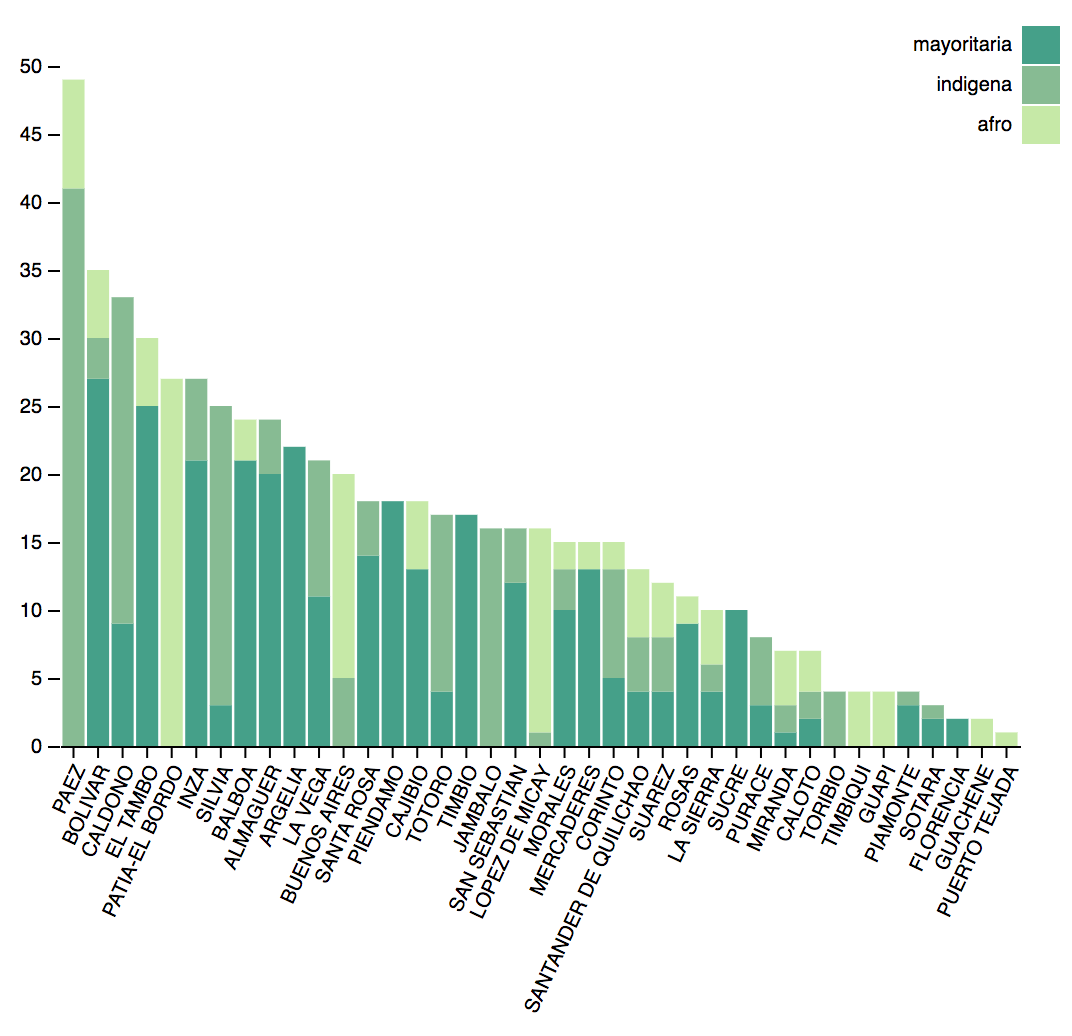
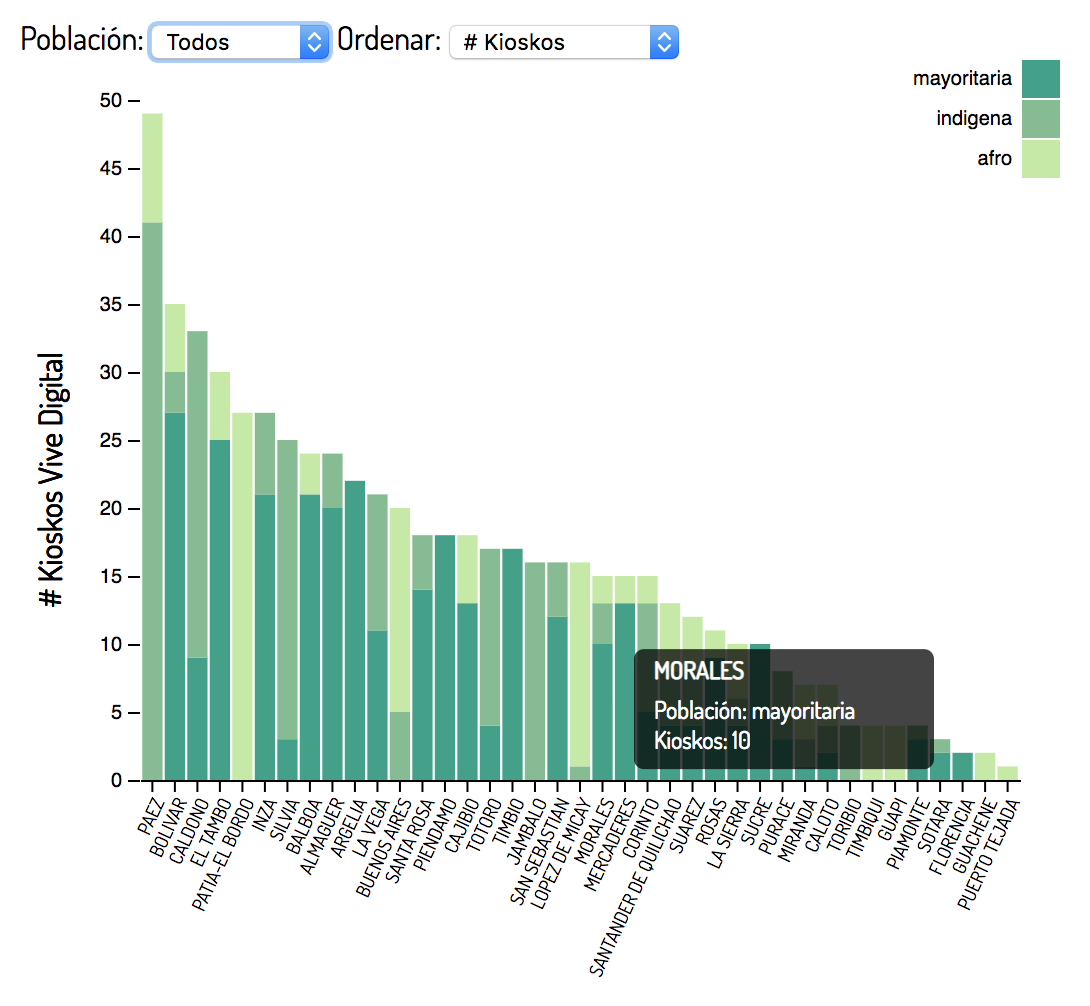
Actualiza el pantallazo

Changed region(s): [[0.0, 0.0, 0.9543, 0.9861], [0.8312, 0.0, 1.0, 0.1849], [0.5849, 0.0, 0.6465, 0.0616]]

diff --git a/logic.js b/logic.js
@@ -1,7 +1,7 @@
 var target = d3.select("#target");
 
 var svg = d3.select("svg"),
-    margin = { top: 20, right: 20, bottom: 60, left: 40 },
+    margin = { top: 20, right: 20, bottom: 60, left: 60 },
     width = +svg.attr("width") - margin.left - margin.right,
     height = +svg.attr("height") - margin.top - margin.bottom,
     g = svg.append("g").attr("transform", "translate(" + margin.left + "," + margin.top + ")");
@@ -46,6 +46,8 @@ function updateChart() {
         .style("text-anchor", "end")
         .attr("dx", "-.8em")
         .attr("dy", ".15em")
+        .style("font-family", "Dosis")
+        .style("font-size", "7pt")
         .attr("transform", function (d) {
             return "rotate(-65)";
         });
@@ -57,6 +59,14 @@ function updateChart() {
         .attr("id", "yaxis")
         .call(d3.axisLeft(y))
         .call(g => g.select(".domain").remove());
+
+    svg.append("text")
+        .attr("transform", "rotate(-90)")
+        .attr("y", margin.left - 55)
+        .attr("x", -1*height/2)
+        .attr("dy", "1em")
+        .style("text-anchor", "middle")
+        .text("# Kioskos Vive Digital");
 
 
     if (poblation != 3) {

diff --git a/index.html b/index.html
@@ -20,9 +20,10 @@
     </select>
     <span>Ordenar: </span>
     <select id="sortdd" onchange="sortChange()">
-        <option value="0" selected="selected">por valor</option>
+        <option value="0" selected="selected"># Kioskos</option>
         <option value="1">alfabéticamente</option>
     </select>
+    <br/>
     <svg width="600" height="500"></svg>
     <div id="target"></div>
     <p><b>Hecho por:</b> Víctor Garzón Marín</p>
